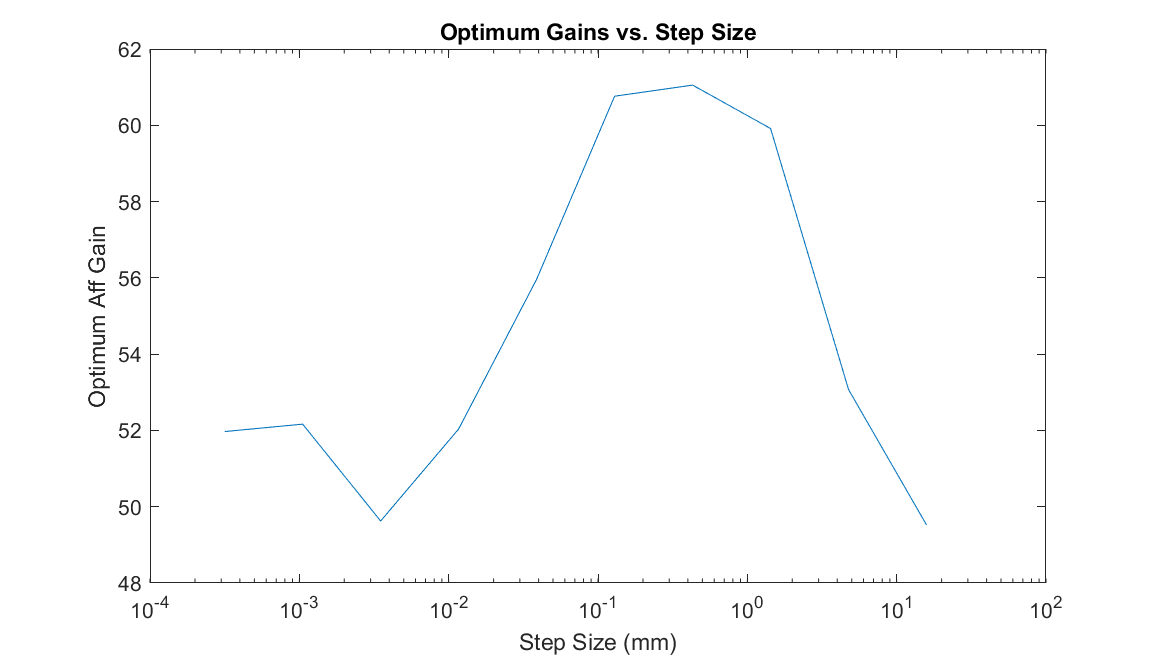
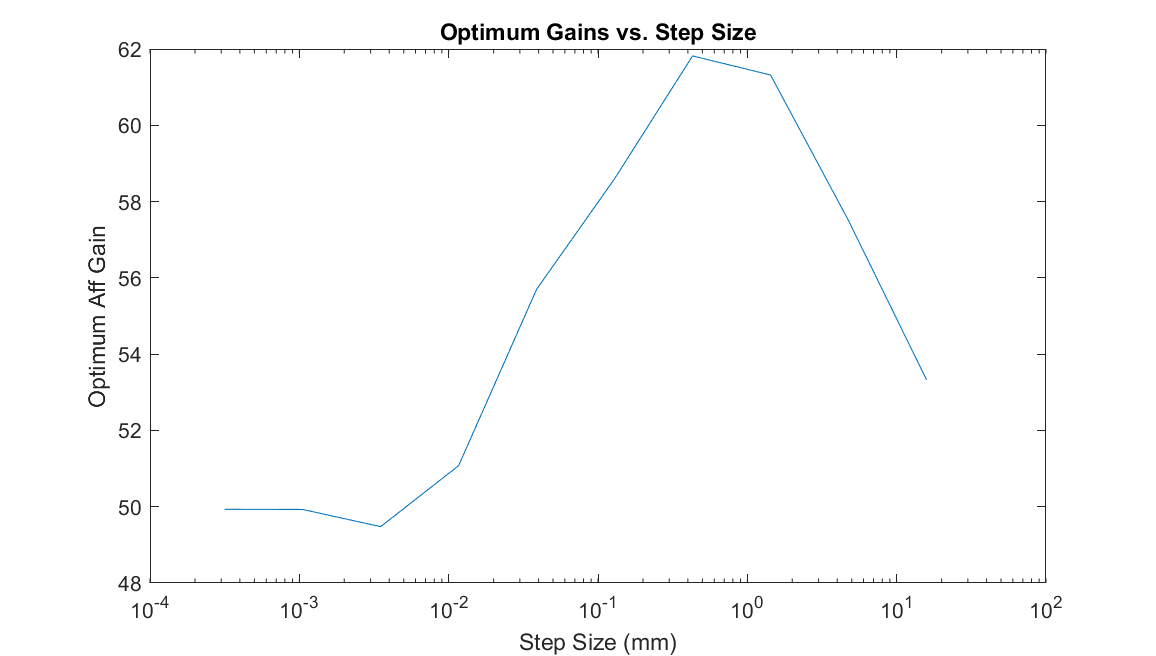
Improvements to Gradient Descent
Addition of 2-parameter gradient optimization

diff --git a/GradDescent.m b/GradDescent.m
@@ -5,19 +5,16 @@ GAINVff = A3200ParameterId.GainVff;
 GAINJff = A3200ParameterId.GainJff;
 
 %% OPTIMIZATION PARAMS
-% Aff = 66.04; % Initialize acceleration gain
 speed = 300;
-step_sizes = logspace(-3.5,1.2,10);
+step_sizes = logspace(-3.5,1.2,10)';
 epsilon_settled = .1;
-epsilon_converged = .3;
-delta = 1;
-batch = 8; % Number of times repeating a value
-alpha = 4; % Learning rate
-beta = 100000;
+epsilon_converged = .1;
+delta = [1 .7];
+batch = 12; % Number of times repeating a value
+alpha = 10E5; % Learning rate
 
-paramType = 'A';
-paramsList = [GAINAFF];
-curGains = [50]; % Starting values
+paramType = 'AV';
+curGains = [50 10]; % Starting values
 
 %% SETUP CONTROLLER
 CTLR = Controller([0],300);
@@ -25,7 +22,7 @@ CTLR = Controller([0],300);
 %% SETUP
 samplePeriod = 1; % in ms
 n_steps = length(step_sizes);
-n_params = length(paramsList);
+n_params = length(curGains);
 % ErrorData = zeros(n_vals*n_steps,3); 
 OptParams = zeros(n_steps,n_params);
 Gradients = zeros(1,n_params);
@@ -43,43 +40,47 @@ for i = 1:n_steps
 % Gradient Descent
 while rmse(curGains, prevGains) > epsilon_converged 
     CTLR.UpdateParam(paramType, curGains);
-%     baselineError = CTLR.multiTest(step, repeat)
+
+    % Display current state
+    baselineError = CTLR.multiTest(step, repeat);
+    disp(['    Current Parameters: ', num2str(curGains), ', current Error: ', num2str(baselineError)]);
 
     % Iterate over the parameters to find the gradients
     for param = 1:n_params
         % central difference approx.
         dplusGains = curGains;
         dminusGains = curGains;
-        dplusGains(param) = curGains(param) + delta;
-        dminusGains(param) = curGains(param) - delta;
+        dplusGains(param) = curGains(param) + delta(param);
+        dminusGains(param) = max([0 curGains(param) - delta(param)]);
 
         CTLR.UpdateParam(paramType, dplusGains);
         plusError = CTLR.multiTest(step, batch);
         CTLR.UpdateParam(paramType, dminusGains);
         minusError = CTLR.multiTest(step,batch);
         
-        Gradients(param) = (plusError - minusError) / 2*delta;
+        Gradients(param) = (plusError - minusError) / 2*delta(param);
     end
     
     % Update Params based on learning rate
     prevGains = curGains;
-    learning = Gradients*(alpha*beta)/epochs^.7;
-    curGains = curGains - learning
+    learning = Gradients*(alpha)/epochs^.4;
+    curGains = max([(curGains - learning); zeros(1,n_params)]);
     epochs = epochs+1;
 end
 
 % TODO
 OptParams(i,:) = curGains;
-disp(['Optimum Parameter for step ', num2str(step), ': ', num2str(OptParams(i))]);
+disp(['Optimum Parameters for step ', num2str(step), ': ', num2str(OptParams(i,:))]);
 
 end
 
 %% Plot Optimization Data
 
 f3 = figure(2);
-semilogx(step_sizes, OptParams);
+stepData = step_sizes*ones(1,n_params);
+semilogx(stepData, OptParams);
 title('Optimum Gains vs. Step Size');
-ylabel('Optimum Aff Gain');
+ylabel('Optimum Gain Value');
 xlabel('Step Size (mm)');
 
 %% Create Fit

diff --git a/Controller.m b/Controller.m
@@ -42,13 +42,18 @@ classdef Controller
             % Update parameters
             GAINAFF = A3200ParameterId.GainAff;
             GAINPFF = A3200ParameterId.GainPff;
-            GAINVff = A3200ParameterId.GainVff;
-            GAINJff = A3200ParameterId.GainJff;
+            GAINVFF = A3200ParameterId.GainVff;
+            GAINJFF = A3200ParameterId.GainJff;
             switch paramType
                 case 'A'
                     % Only Acceleration is specified
                     assert(length(newGains) == 1, 'Wrong number of gains for A');
                     A3200ParameterSetValue(obj.handle,GAINAFF,0,newGains);
+                case {'AV', 'VA'}
+                    % Position, velocity
+                    assert(length(newGains) == 2, 'Wrong number of gains for AV');
+                    A3200ParameterSetValue(obj.handle,GAINVFF,0,newGains(1));
+                    A3200ParameterSetValue(obj.handle,GAINAFF,0,newGains(2));
                 case 'PVAJ'
                     % Position, velocity, acceleration, jerk parameters
                     assert(length(newGains) == 4, 'Wrong number of gains for PVAJ');
@@ -140,23 +145,25 @@ classdef Controller
         function avgError = multiTest(obj, step, numTests)
             % Test multiple times with same gains and get avg error
             Errors = zeros(numTests,1);
-            pd = makedist('Loguniform', 'Lower',obj.minMove, 'Upper', 1);
+            startCenter = -1;
+            pd = makedist('Loguniform', 'Lower',obj.minMove, 'Upper', -startCenter);
             randShift = random(pd,numTests,1);
             for i = 1:numTests
                 % Goto -2
-                obj.Move(-2);
-            
+                A3200MotionMoveAbs(obj.handle, 1, obj.axes, startCenter, obj.speed)
+                
                 % Random move to establish backlash alternating forward/backwards
                 if mod(i,2) == 0
-                    start = -2 + randShift(i);
-                    obj.Move(start);
+                    start = startCenter + randShift(i);
+                    A3200MotionMoveAbs(obj.handle, 1, obj.axes, start, obj.speed);
                 else
-                    start = -2 - randShift(i);
-                    obj.Move(start);
+                    start = startCenter - randShift(i);
+                    A3200MotionMoveAbs(obj.handle, 1, obj.axes, start, obj.speed)
                 end
             
                 % Test move
                 obj = obj.GetDataCol(step);
+                A3200MotionWaitForMotionDone(obj.handle, obj.axes, A3200WaitOption.InPosition, -1);
                 Errors(i) = obj.MeasureStep(step, start);
             end
             avgError = sum(Errors) / numTests;
